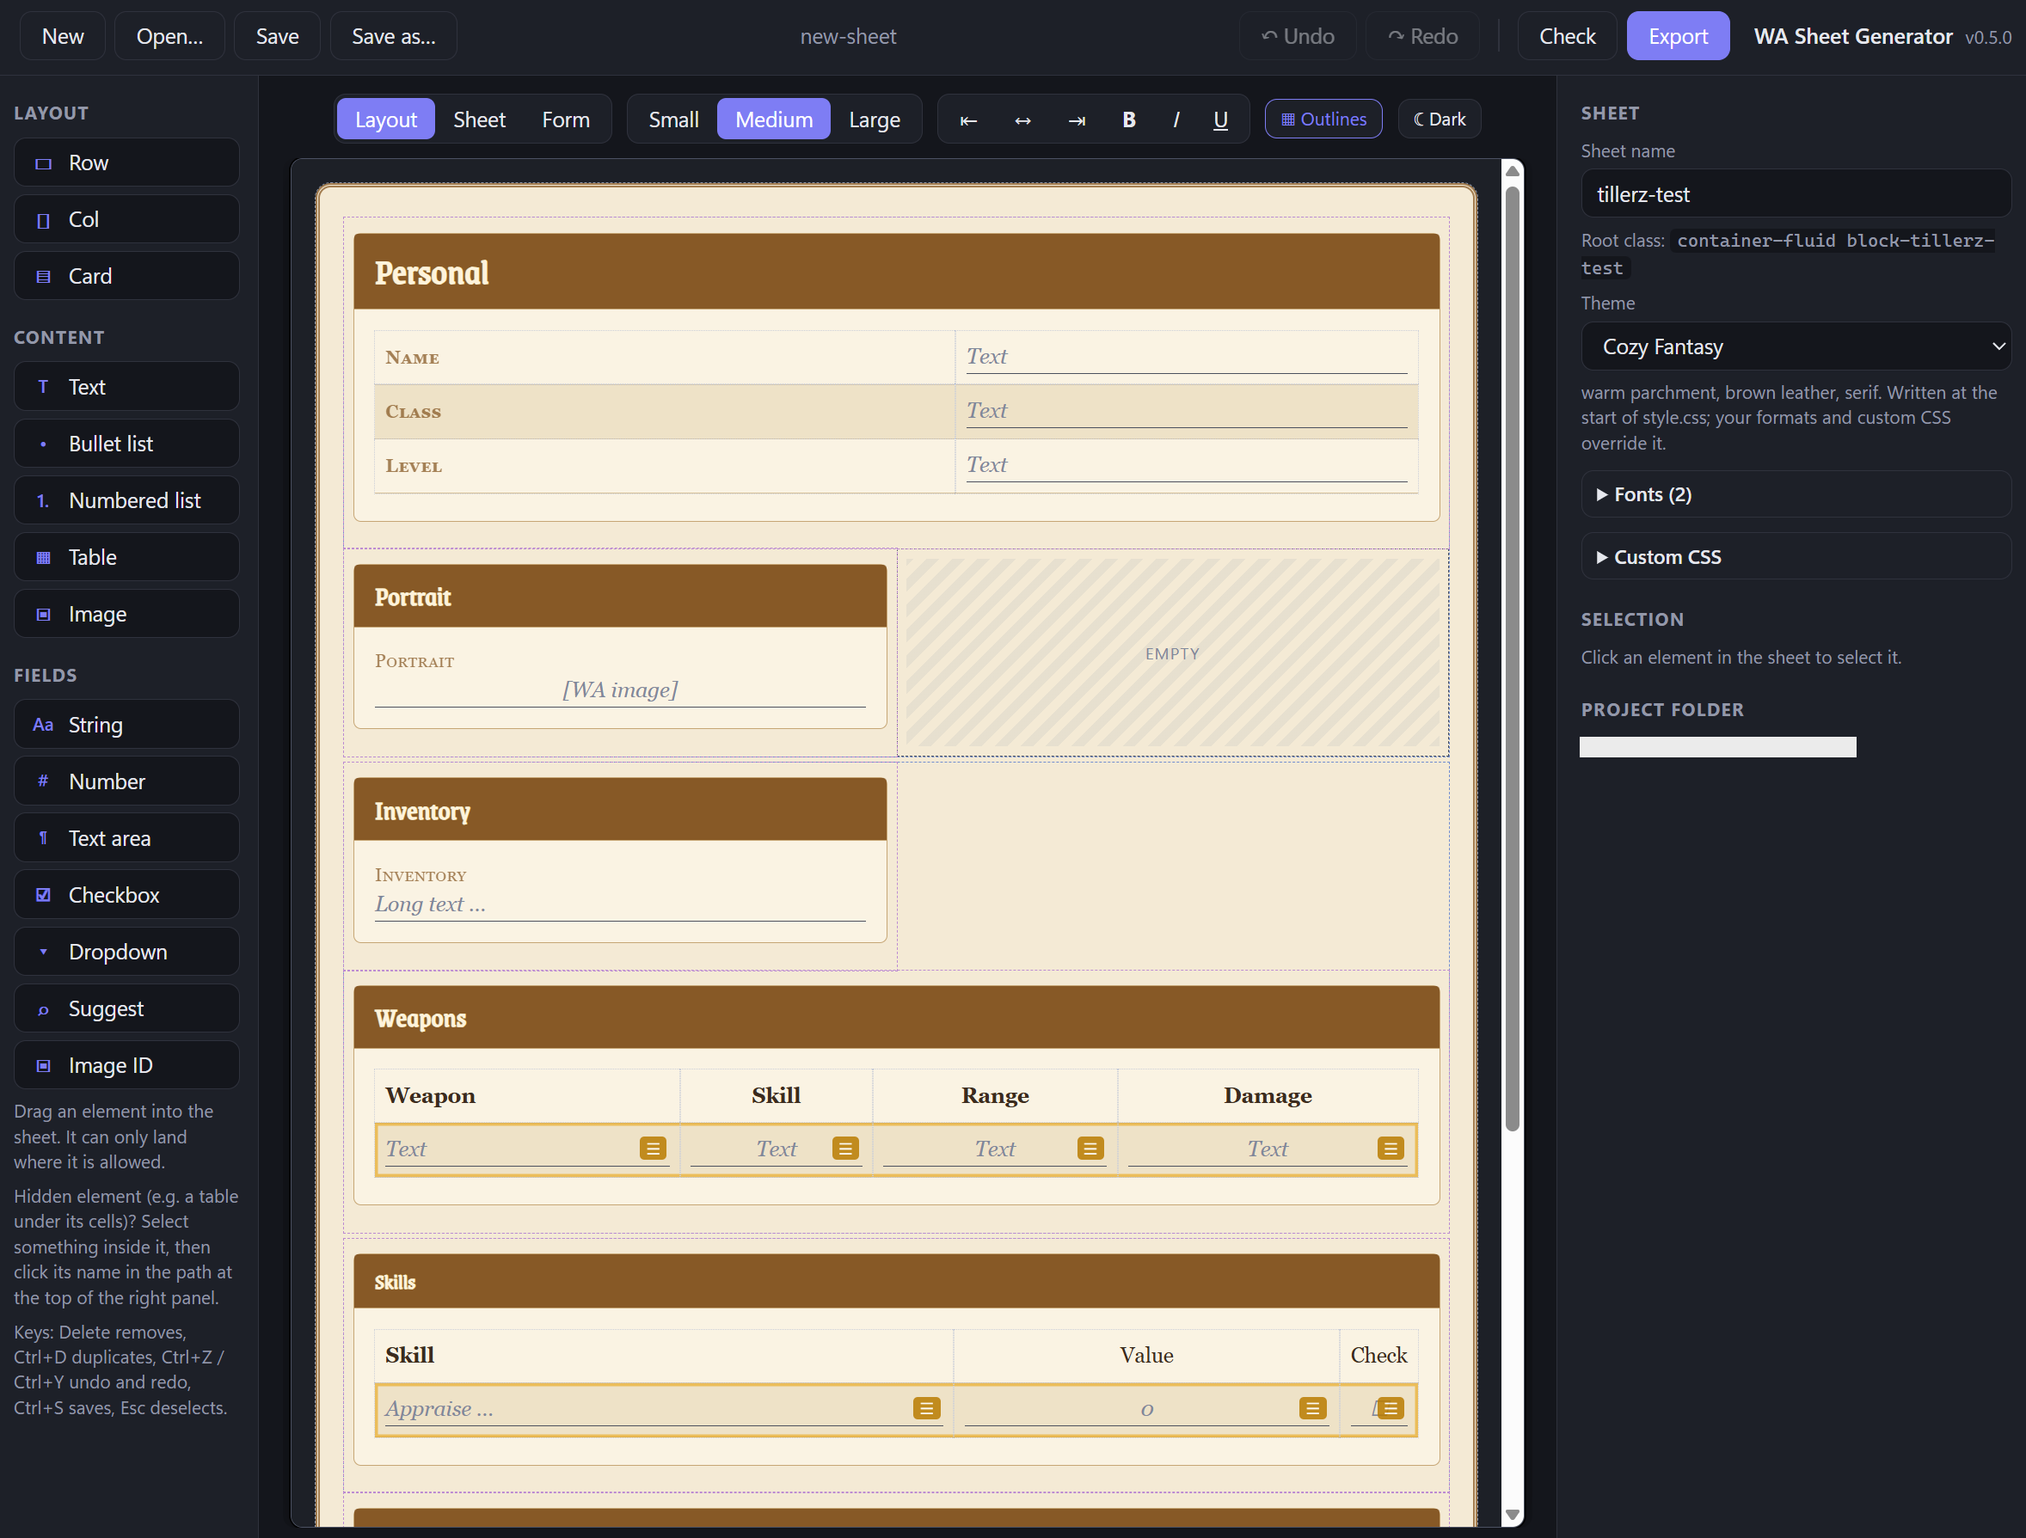
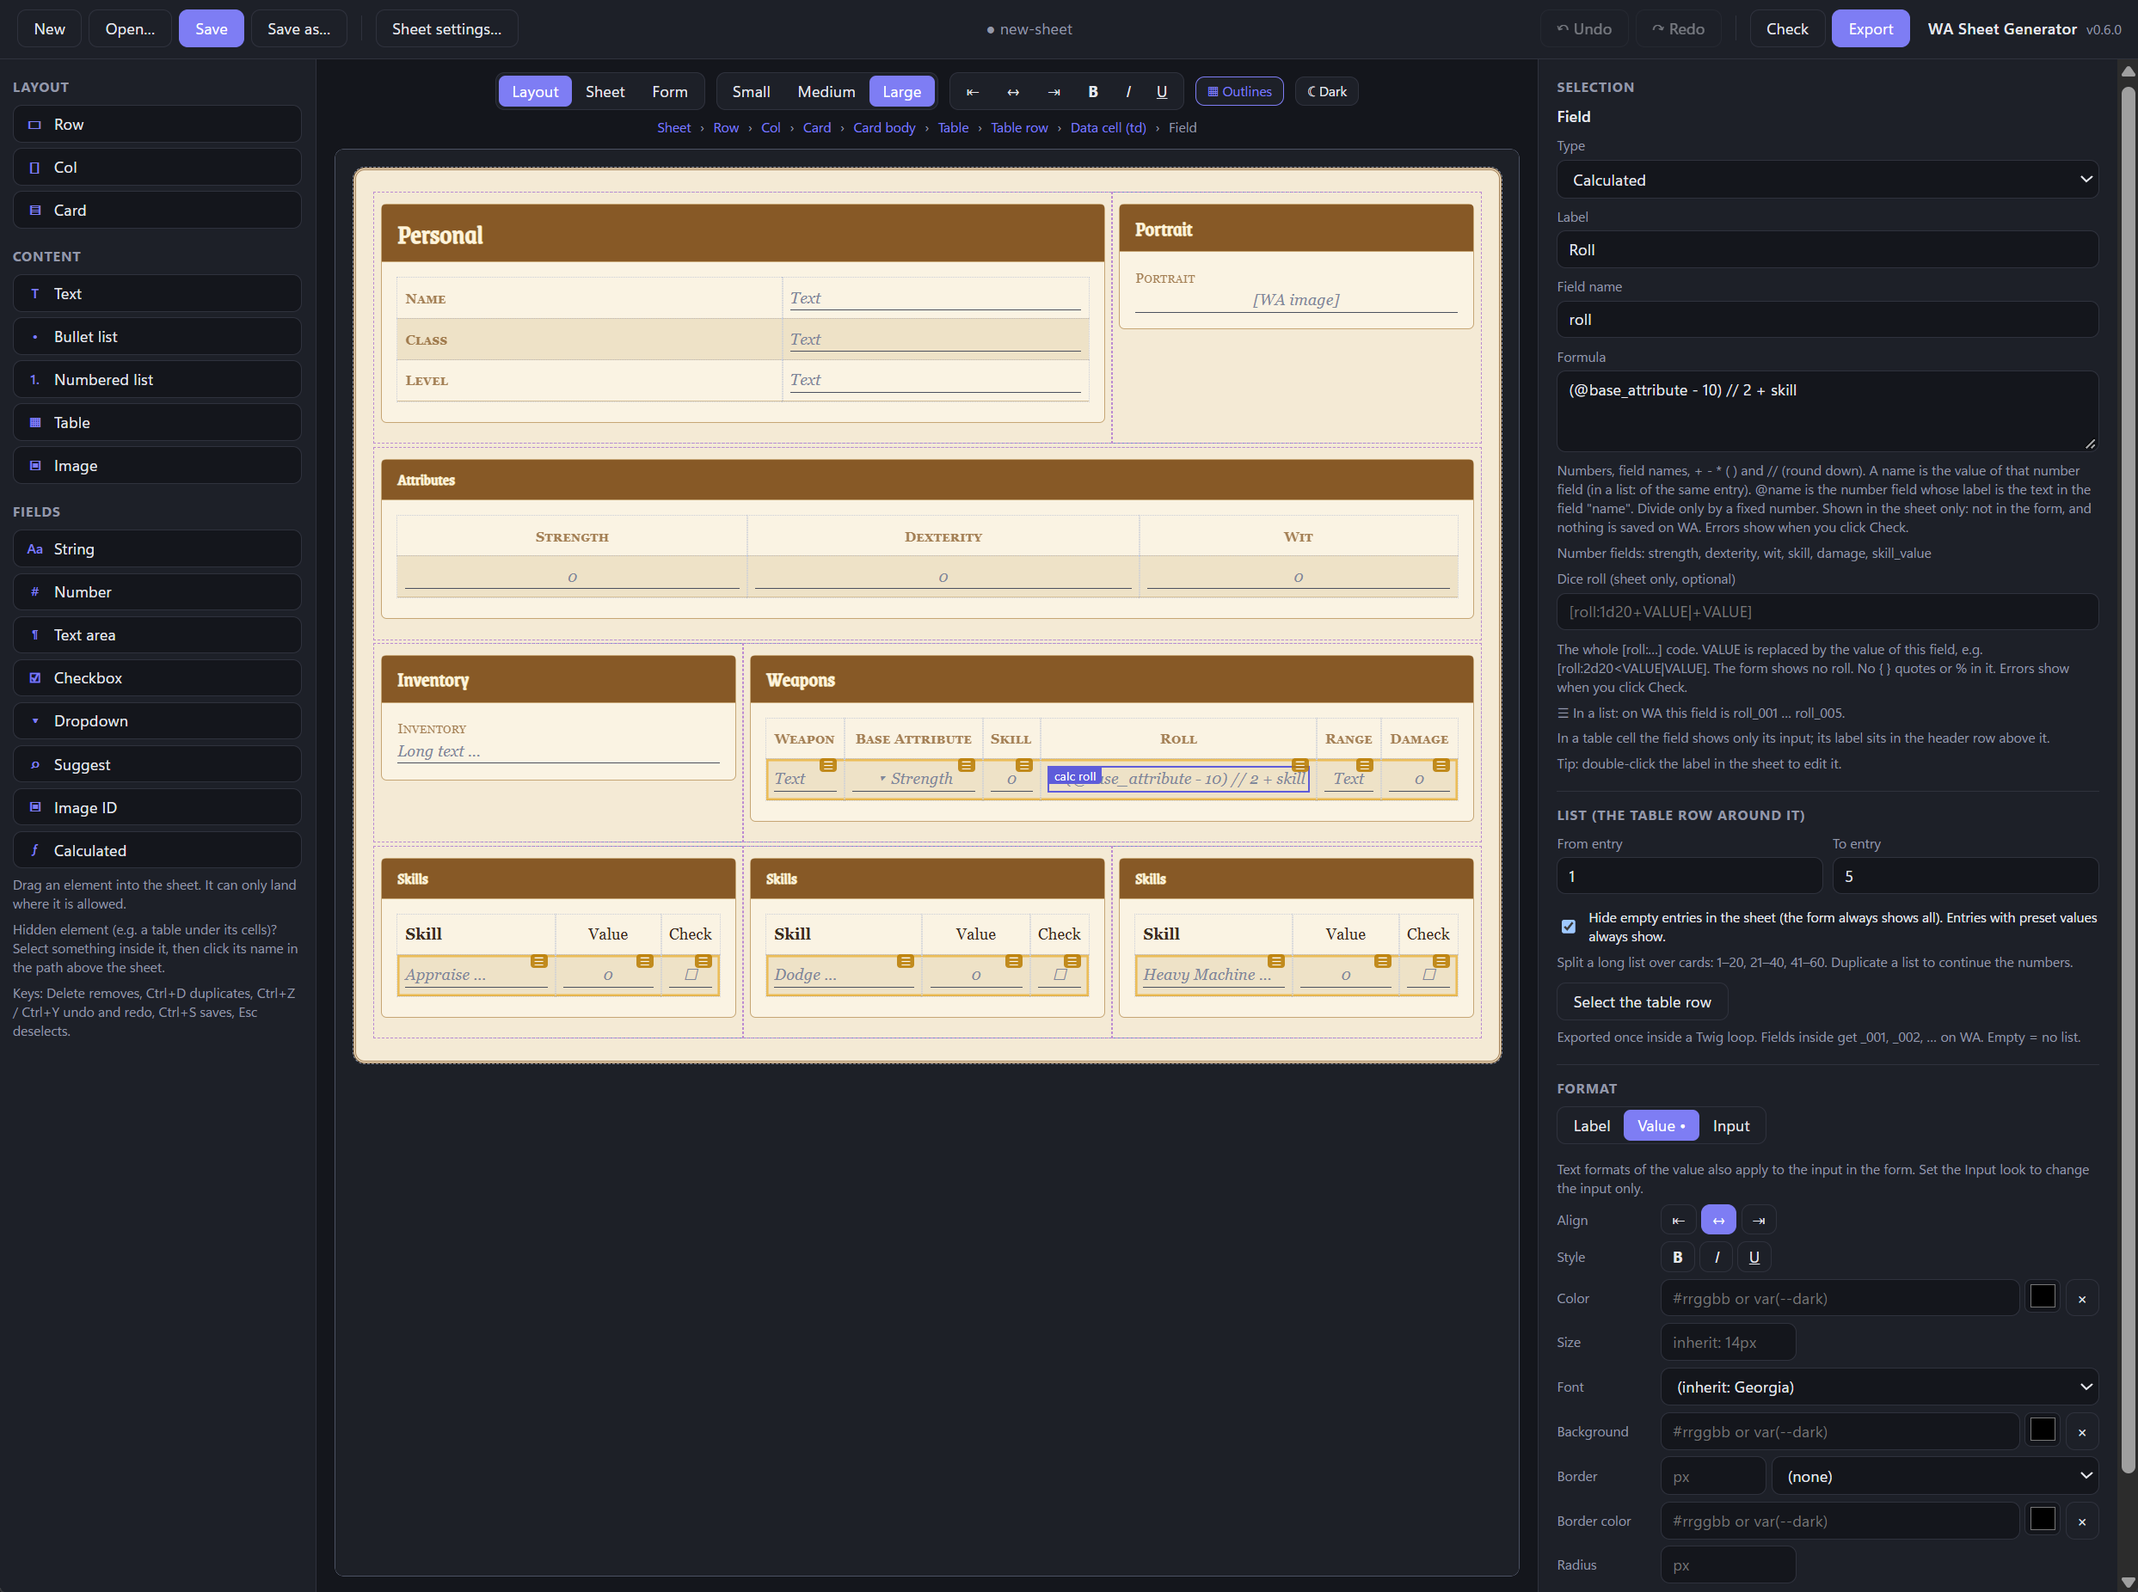
README and release notes for v0.6.0; dice roller documentation link; new screenshots
- README: calculated fields, dice rolls (with a link to the dice roller documentation),
  the Minimal (light/dark) theme, table sizes and inserts, the comma check, sheet settings.
- The dice roll hint in the sidebar links to the dice roller documentation.
- docs/releases/v0.6.0.md; updated and new screenshots.

diff --git a/source/web/app.js b/source/web/app.js
@@ -812,7 +812,9 @@ function fieldPanel(node, out) {
       },
     });
     out.push(labeled('Dice roll (sheet only, optional)', dice));
-    out.push(h('p', { class: 'hint', textContent: 'The whole [roll:…] code. VALUE is replaced by the value of this field, e.g. [roll:2d20<VALUE|VALUE]. The form shows no roll. No { } quotes or % in it. Errors show when you click Check.' }));
+    out.push(h('p', { class: 'hint' },
+      'The whole [roll:…] code. VALUE is replaced by the value of this field, e.g. [roll:2d20<VALUE|VALUE]. The form shows no roll. No { } quotes or % in it. Errors show when you click Check. How to write rolls: ',
+      h('a', { href: 'https://dice-roller.github.io/documentation/', target: '_blank', rel: 'noopener', textContent: 'dice roller documentation' }), '.'));
   }
 
   if (p.fieldType === 'text') {

diff --git a/README.md b/README.md
@@ -14,14 +14,16 @@ More in [Screenshots](#screenshots).
 
 - **Visual editor**: drag rows, cols, cards, tables, lists, texts and images into the sheet. Bootstrap 5 grid with col widths for small, medium and large screens.
 - **All World Anvil field types**: text, number, text area, checkbox, dropdown, text with suggestions, and WA image ID.
-- **Tables made for sheets**: drop a field into a cell, and its label lands in a `th`, its input in the next `td`. Or put all labels on top, in a header row, for skill and weapon tables. Column widths are set by dragging the header cells.
+- **Tables made for sheets**: drop a field into a cell, and its label lands in a `th`, its input in the next `td`. Or put all labels on top, in a header row, for skill and weapon tables. Column widths (in % or px) and row heights are set by dragging, with the number shown while you drag. Right-click adds rows above or below and columns left or right.
 - **Lists**: repeat a row, col, card, table row or list item, up to entry 199. It is exported once inside a Twig loop, and fields become `skill_001`, `skill_002`, …, like hand-made WA sheets. Long lists can be split over several cards (1–20, 21–40, 41–60). Preset values give every entry its own text, e.g. skill names, either fixed or as an editable default.
+- **Calculated fields**: a field with a formula, e.g. `@base + skill` or `(strength - 10) // 2`. The sheet shows the result, the form shows nothing, and nothing is saved on World Anvil. A name is the value of that number field (in a list: of the same entry); `@name` is the number field whose label is the text in another field, so each skill in a list can use a different attribute. Works with lists and preset values.
+- **Dice rolls**: a number or calculated field can write a World Anvil `[roll:…]` code in the sheet, e.g. `[roll:1d20+VALUE|+VALUE]` or `[roll:2d20<VALUE|VALUE]`. `VALUE` is replaced by the value of the field (or the calculated result). The rules for the roll itself (keep the highest, exploding dice, success counts, …) are in the [dice roller documentation](https://dice-roller.github.io/documentation/). The roll only works in the sheet, not in the form.
 - **Formatting without code**: alignment, bold, italic, underline, colors, font sizes, fonts, borders, radius, backgrounds and bullet styles. Everything goes into CSS classes, so you can still adjust the look in the CSS later.
-- **Themes**: Cozy Fantasy, Elegant Medieval, Druid Grove, Steampunk, Horror, Sci-Fi Space, Sci-Fi Cyberpunk, Clean Modern, Clean Modern (dark) and Minimal (light/dark), with striped rows in tables and lists. Your own formats and CSS override the theme.
+- **Themes**: Cozy Fantasy, Elegant Medieval, Druid Grove, Steampunk, Horror, Sci-Fi Space, Sci-Fi Cyberpunk, Clean Modern, Clean Modern (dark) and Minimal (light/dark), with striped rows in tables and lists. Your own formats and CSS override the theme. **Minimal (light/dark) is different from the others:** the other themes bring their own fixed colors and fonts, but Minimal keeps World Anvil's own colors and page font. It only adds the card header (`--light` on `--dark`), borders and grey stripes, so the sheet follows World Anvil's light and dark mode switch. Use it when readers should see the sheet in their own mode.
 - **Fonts**: a library of fonts used on World Anvil sheets (one click to add), or your own font file links. They go into `approved.css` and show in the editor too.
 - **Custom CSS**: extra rules for `style.css` and `approved.css`, checked against World Anvil's rules.
 - **Looks like it will on World Anvil**: the editor uses the same Bootstrap version as World Anvil sheets (5.0.1, CSS only) and applies exactly the CSS that the export writes, made by the same code. The **Sheet** and **Form** previews are not a separate imitation: they are the exported Twig files themselves, filled with sample data. What can still differ is what World Anvil adds around the sheet: the site's own styles and theme colors (`--dark`, `--light`), its page font, Font Awesome icons and `[img:…]` images, which the editor only stands in for.
-- **Built-in checks for World Anvil's rules**: no `);`, no quotes or `%` inside `( )` in CSS, no class names starting with `sh` or `py`, no filtered words like `script`, no JavaScript, unique field names. The export stops with a clear list of problems.
+- **Built-in checks for World Anvil's rules**: no `);`, no quotes or `%` inside `( )` in CSS, no commas inside `( )` in `style.css` values (so no `rgba()` or gradients there; use hex colors like `#80808040`, and put gradients into `approved.css`), no class names starting with `sh` or `py`, no filtered words like `script`, no JavaScript, unique field names. The export stops with a clear list of problems.
 - **Comfortable editor**: resizable sidebars, a path bar above the sheet to reach hidden elements (e.g. a table under its cells), a sheet settings panel, numbers while you resize, undo / redo, autosave (nothing is lost on a reload or crash), keyboard shortcuts, recent sheets, light and dark mode.
 - **Small and private**: one program file, no installer, no account, no internet needed (except to load your own font URLs in the preview).
 
@@ -67,9 +69,9 @@ Notes:
 ## Quick start
 
 1. A new sheet starts with a "Personal" card and the required `name` field.
-2. Set the **sheet name** on the right. The root class becomes `block-<sheet-name>`.
+2. Open **Sheet settings…** in the top bar and set the **sheet name**. The root class becomes `block-<sheet-name>`. The theme, fonts and custom CSS are there too.
 3. Drag elements from the left into the sheet. Double-click texts and labels to edit them. Right-click for more actions.
-4. Select an element to change its settings and its format on the right.
+4. Select an element to change its settings and its format on the right. The path above the sheet shows where it sits and selects the elements around it.
 5. Use **Sheet** and **Form** above the canvas to preview.
 6. Click **Export**. The app checks the sheet, saves it, and writes the five files into the sheet's folder.
 7. In World Anvil, paste the files into your sheet template.
@@ -96,9 +98,17 @@ Settings like recent sheets, and the autosave of unsaved work, are stored in `%A
 
 ![Layout Mode](docs/layout.png)
 
+### Sheet Preview
+
+<img alt="Sheet Preview" src="docs/sheet-preview.png" width="75%">
+
+### Form Preview
+
+<img alt="Form Preview" src="docs/form-preview.png" width="75%">
+
 ### Sidebar
 
-<img alt="Sidebar" src="docs/sidebar.png" width="350px">
+<img alt="Sidebar" src="docs/sidebar.png" width="550px">
 
 ### Themes
 

diff --git a/bible.md b/bible.md
@@ -326,7 +326,7 @@ Sheets often repeat a block, e.g. 10 skills or 4 weapons. Version 2 exports thes
 - **Preset values** (string fields in lists): a comma-separated list, one value per entry (e.g. skill names), written once before the loop as `{% set preset_skill = ['Arcana', 'Examination'] %}` and read as `preset_skill[i - 1]`: counted by **entry number**, so a list split over cards (1–10, 11–20, 21–30) shares one list of values and entry 11 takes value 11 on the second card. Editing the values (or the toggle) on one card changes all cards of the list (fields with the same name in lists). Toggle "Editable by the user": *off* (default) — sheet and form show the text, no input, no YAML entry (nothing is saved); *on* — a normal input, filled with the preset value until the user changes it; the sheet shows the saved value or the preset value. Fewer values than the list's last entry number: warning, the rest stay empty.
 - **Empty entries are hidden in the sheet** (default; switch "Hide empty entries in the sheet" in the List panel, stored as `showEmpty` when off): inside the loop of `basic-sheet.html.twig` the entry is wrapped in `{% if a|default or b|default %} … {% endif %}` over its data fields, so an entry without any value (empty or 0) is not shown. Dropdowns do not count (the form always sends the first option), unless the list has no other data field. The form always shows all entries. Lists with preset values always show every entry.
 - **Calculated fields** (type "Calculated", `source/calc.go`): a field with a formula; the sheet shows the result, the form shows nothing, and there is no YAML entry (nothing is saved on WA). Formula: numbers, field names, `+ - * ( )` and `//` (floor division); `/` and `//` only by a fixed number that is not 0 (an empty field would divide by 0 and WA stops). A name is the value of that number field; in a list it is the same entry (`skill` → `skill_{{id}}`); a field outside lists works inside a list too. `@base` is the number field (outside lists) whose **label** is the text in the field `base`: the text comes from preset values, a dropdown or a suggest field of the same list entry; the export maps label → field name (`{% set calc_total_names = {'Strength': 'strength', …} %}`). So renaming a label breaks saved values; the checker warns when a preset or option is no number field's label. The Twig is split into one `{% set %}` line per field used and a short final `{{ … }}` (the WA filter can remove long expressions with many brackets); `{# calc name #}` before the result is for the preview. Not allowed: `%` (WA: no `%` inside brackets), calculated fields inside formulas, required, preset values. The previews work the result out from the sample values.
-- **Dice rolls** (`source/dice.go`): a number or calculated field can have a dice rule, the whole code, e.g. `[roll:1d20+VALUE|+VALUE]` or `[roll:2d20<VALUE|VALUE]` (`VALUE` = the field's value, also the result of a calculated field). WA turns `[roll:…]` into a roll in the sheet; the form shows no roll. Written as `{% set dice_name = value %}` and then the rule with `{{dice_name}}` for `VALUE` (short lines, the WA filter can remove long expressions); `{# dice name #}` is for the preview. Allowed in the rule: letters, digits, space and `+ - * / < > = ! . , : | ^ ( )`; no braces, quotes or `%`, so dice groups like `{4d6+2d8}` cannot be written. `<` and `>` are written as typed. Tested on WA: `<` and `>` survive and the roll works (`[roll:2d20<18]`).
+- **Dice rolls** (`source/dice.go`): a number or calculated field can have a dice rule, the whole code, e.g. `[roll:1d20+VALUE|+VALUE]` or `[roll:2d20<VALUE|VALUE]` (`VALUE` = the field's value, also the result of a calculated field). WA turns `[roll:…]` into a roll in the sheet; the form shows no roll. Written as `{% set dice_name = value %}` and then the rule with `{{dice_name}}` for `VALUE` (short lines, the WA filter can remove long expressions); `{# dice name #}` is for the preview. Allowed in the rule: letters, digits, space and `+ - * / < > = ! . , : | ^ ( )`; no braces, quotes or `%`, so dice groups like `{4d6+2d8}` cannot be written. `<` and `>` are written as typed. The sidebar hint and the README link to the dice roller documentation (https://dice-roller.github.io/documentation/). Tested on WA: `<` and `>` survive and the roll works (`[roll:2d20<18]`).
 - Fields in lists show a small ☰ mark in the canvas; its tooltip names the WA fields (`weapon_021 … weapon_040`).
 - The fields inside get numbered names on WA: `weapon_name` → `weapon_name_001` … `weapon_name_004` (3 digits, as in the examples).
 - Twig output, following the examples:

diff --git a/docs/releases/v0.6.0.md b/docs/releases/v0.6.0.md
@@ -1,0 +1,10 @@
+## What's new
+
+- **Calculated fields.** A new field type with a formula, for example `@base + skill`. The sheet shows the result, the form shows nothing, and nothing is saved on World Anvil. Names mean the value of that number field (in a list: of the same entry). `@name` means the number field whose label is the text in another field, so each skill in a list can use a different attribute. The Twig is split into short lines so the World Anvil filter keeps it.
+- **Dice rolls.** A number or calculated field can write a `[roll:…]` code in the sheet, for example `[roll:2d20<VALUE|VALUE]`. `VALUE` becomes the field's value or the calculated result. How to write rolls: [dice roller documentation](https://dice-roller.github.io/documentation/).
+- **New theme: Minimal (light/dark).** It keeps World Anvil's own colors and only adds the card header, borders and stripes with `--light` and `--dark`, so the sheet follows the site's light and dark switch.
+- **Sheet settings.** Sheet name, theme, fonts, custom CSS and the project folder moved into a floating panel (top bar button), so the sidebar only holds the selected element. The path bar (Sheet › Row › Col …) now sits above the sheet.
+- **Tables.** Right-click adds rows above or below and columns left or right. Table cells can have a width in % or px and a height; drag the bottom edge of a row to change it (double-click: automatic).
+- **Numbers while resizing.** A badge shows the value while you drag a col handle (`4/12`) or a table cell handle (`30%`, `240px`).
+- **Checker.** A comma inside brackets in `style.css`, like `rgba(…)` or `linear-gradient(…)`, is now an error, because World Anvil's filter breaks it. Use hex colors; `#80808040` is see-through grey. Gradients belong in `approved.css`.
+- **Fixes.** Empty list entries stay hidden even when the entry has a dropdown (the form always sends its first option). The ☰ list mark no longer covers the value in narrow table cells.
